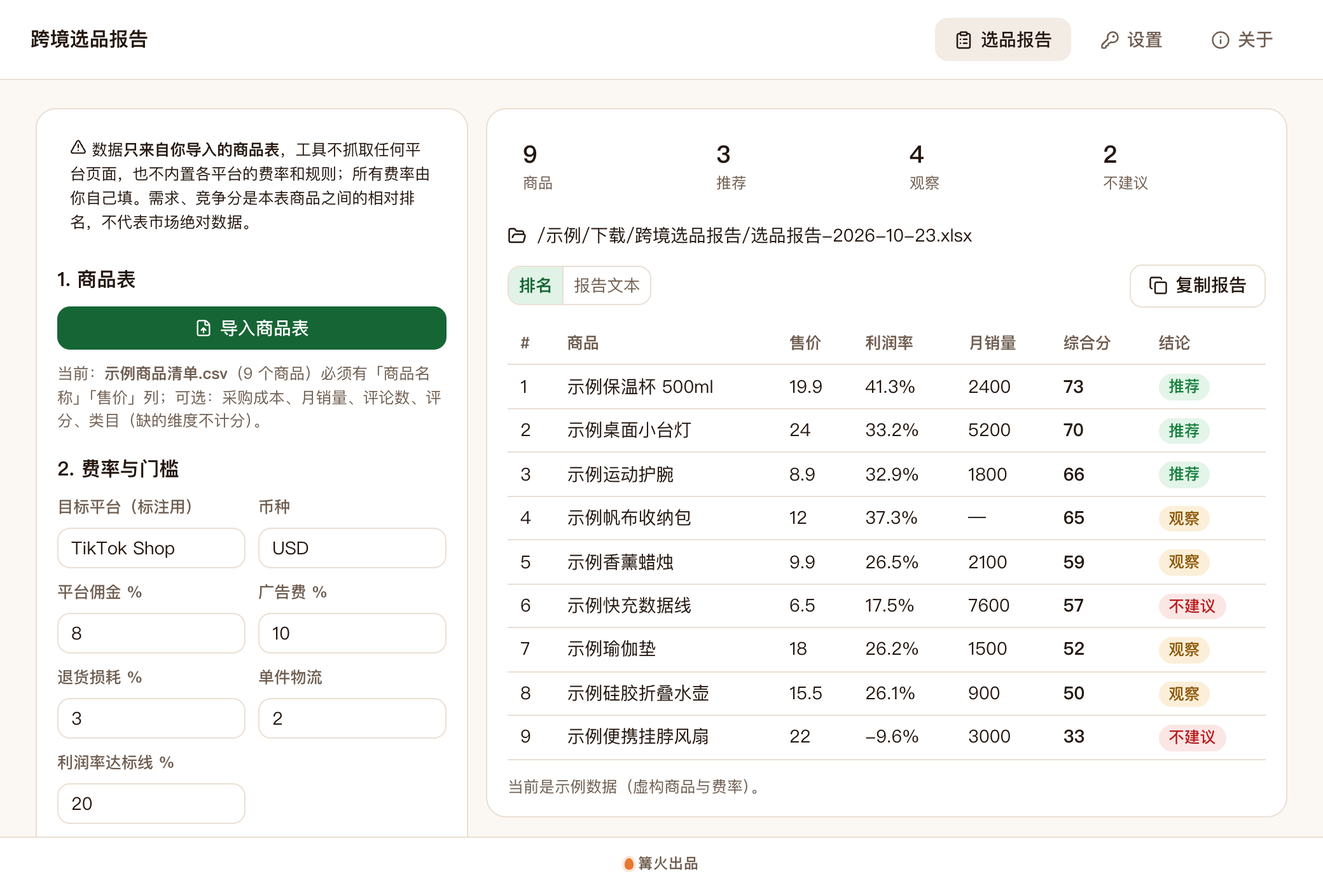
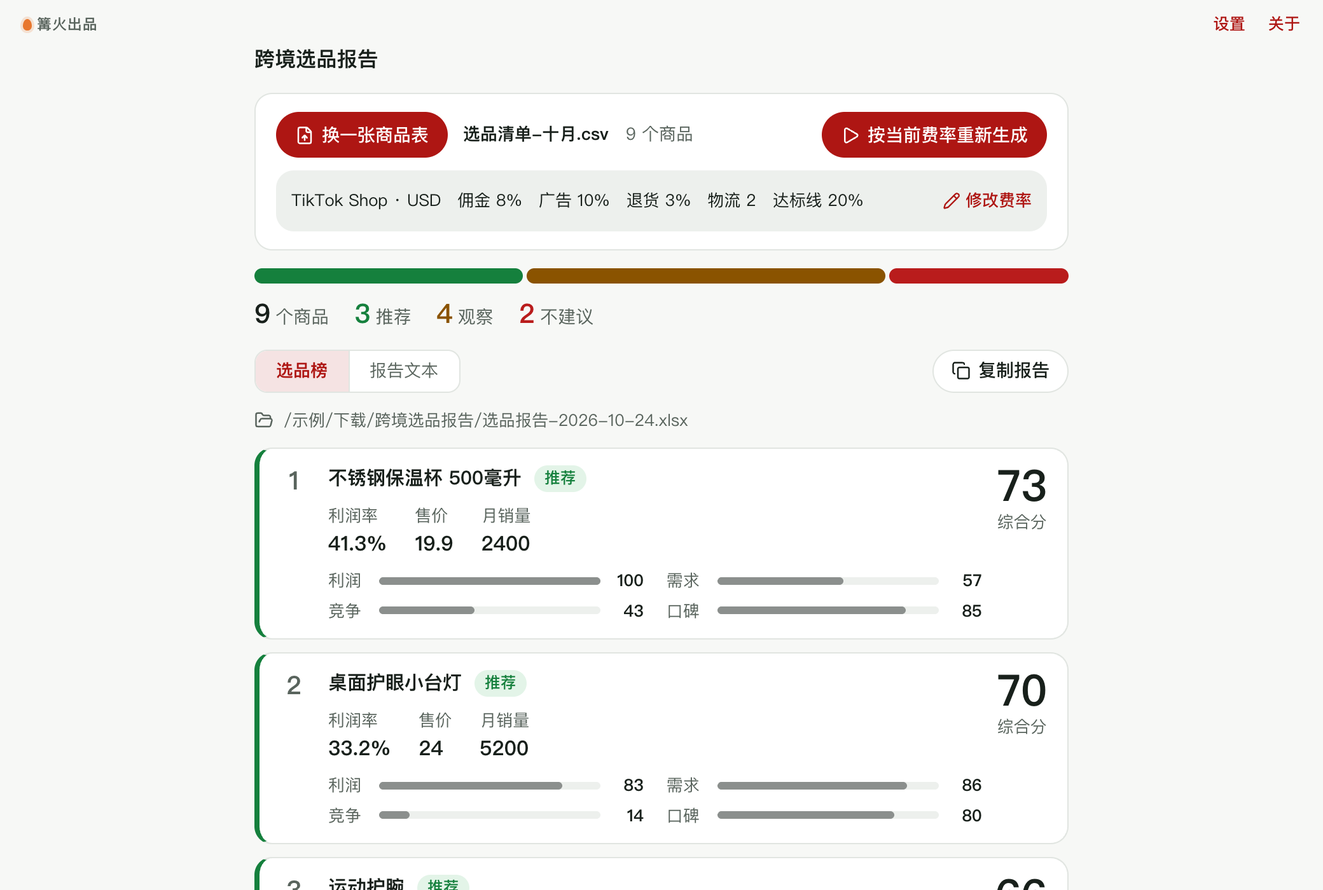
打磨 e17：单栏选品榜卡片与四维度分条，全中文，升至 0.2.0

diff --git a/src/tool/Main.tsx b/src/tool/Main.tsx
@@ -1,12 +1,12 @@
-// 主界面：左侧导入商品表、填费率、选是否用大模型；右侧看排名与报告文本，导出 Excel / Markdown。
+// 主界面：单栏报告流。上面导入商品表、填费率（生成后收成一行摘要），下面是按综合分排的商品榜单卡，每张卡有四维度分条；可看报告文本、导出 Excel / Markdown。
 import { useEffect, useRef, useState } from 'react';
-import { FileUp, FolderOpen, Play, TriangleAlert } from 'lucide-react';
+import { FileUp, FolderOpen, Pencil, Play, TriangleAlert } from 'lucide-react';
 import type { CustomTool } from '../kit/types';
 import { defaultOutputDir, pickFiles, reveal } from '../kit/platform';
 import { useDroppedFiles, CopyButton } from '../kit/parts';
 import { errText } from './common';
 import { loadProducts, runReport, type Outcome } from './flow';
-import { pctText } from './core';
+import { pctText, type Scored } from './core';
 import { DEFAULT_PREFS, loadPrefs, savePrefs, type Prefs } from './store';
 import { PREVIEW_CSV, PREVIEW_SETTINGS, isPreview } from './preview';
 import './tool.css';
@@ -14,11 +14,12 @@ import './tool.css';
 type Ctx = Parameters<CustomTool['Main']>[0]['ctx'];
 type Tab = 'rank' | 'text';
 const NUMS: [keyof Prefs, string, string][] = [['commission', '平台佣金 %', '占售价'], ['ads', '广告费 %', '占售价'], ['returns', '退货损耗 %', '占售价'], ['shipping', '单件物流', '本币金额']];
+const DIMS: [keyof Scored['dims'], string][] = [['margin', '利润'], ['demand', '需求'], ['competition', '竞争'], ['quality', '口碑']];
 
 export function Main({ ctx }: { ctx?: Ctx }) {
   const preview = isPreview();
   const [prefs, setPrefs] = useState<Prefs>(preview ? { ...DEFAULT_PREFS, ...PREVIEW_SETTINGS } : DEFAULT_PREFS);
-  const [file, setFile] = useState(preview ? '示例商品清单.csv' : '');
+  const [file, setFile] = useState(preview ? '选品清单-十月.csv' : '');
   const bytes = useRef<Uint8Array | null>(preview ? new TextEncoder().encode(PREVIEW_CSV) : null);
   const [count, setCount] = useState(preview ? 9 : 0);
   const [out, setOut] = useState<Outcome | null>(null);
@@ -26,6 +27,7 @@ export function Main({ ctx }: { ctx?: Ctx }) {
   const [busy, setBusy] = useState(false);
   const [error, setError] = useState('');
   const [notice, setNotice] = useState('');
+  const [cfgOpen, setCfgOpen] = useState(!preview);
 
   useEffect(() => { if (!preview) void loadPrefs().then(setPrefs); }, [preview]);
   const setP = (patch: Partial<Prefs>) => setPrefs((p) => { const n = { ...p, ...patch }; void savePrefs(n); return n; });
@@ -49,7 +51,7 @@ export function Main({ ctx }: { ctx?: Ctx }) {
       const io = ctx ?? { mkdir: async () => {}, writeFile: async () => {}, join: async (...p: string[]) => p.join('/') };
       const outDir = preview ? '/示例/下载/跨境选品报告' : await defaultOutputDir('跨境选品报告');
       const r = await runReport({ bytes: bytes.current, file, settings: prefs, useLlm: prefs.useLlm && !preview, llm: ctx?.llm, io, outDir, now: new Date(), top: 10 });
-      setOut(r);
+      setOut(r); setCfgOpen(false);
       if (r.llmError) setNotice(`报告已生成，但 AI 解读没有成功：${r.llmError}`);
     } catch (e) { setError(errText(e)); } finally { setBusy(false); }
   }
@@ -57,67 +59,107 @@ export function Main({ ctx }: { ctx?: Ctx }) {
 
   const zeroFee = prefs.commission + prefs.ads + prefs.returns + prefs.shipping === 0;
   const cnt = (v: string) => out?.scored.filter((x) => x.verdict === v).length ?? 0;
+  const total = out?.scored.length ?? 0;
+  const vcls = (v: string) => (v === '推荐' ? 'ok' : v === '观察' ? 'warn' : 'err');
   return (
     <div className="pr-root">
-      <section className="k-panel pr-side">
-        <p className="pr-risk"><TriangleAlert size={13} /> 数据<b>只来自你导入的商品表</b>，工具不抓取任何平台页面，也不内置各平台的费率和规则；所有费率由你自己填。需求、竞争分是本表商品之间的相对排名，不代表市场绝对数据。</p>
-        <h3 className="k-section">1. 商品表</h3>
-        <button className="k-btn primary" disabled={!ctx} onClick={() => void pickFiles(['xlsx', 'csv'], '商品表').then(importFile)}><FileUp size={14} />导入商品表{hover && ' · 松开即可导入'}</button>
-        <p className="k-muted pr-note">{file ? <>当前：<b>{file}</b>（{count} 个商品）</> : '支持 .xlsx / .csv，也可直接拖进窗口。'}必须有「商品名称」「售价」列；可选：采购成本、月销量、评论数、评分、类目（缺的维度按中性 50 分）。</p>
-        <h3 className="k-section">2. 费率与门槛</h3>
-        <div className="pr-two">
-          <div className="k-field"><label className="k-label" htmlFor="pr-pf">目标平台（标注用）</label><input id="pr-pf" className="k-input" value={prefs.platform} onChange={(e) => setP({ platform: e.target.value })} /></div>
-          <div className="k-field"><label className="k-label" htmlFor="pr-cur">币种</label><input id="pr-cur" className="k-input" value={prefs.currency} onChange={(e) => setP({ currency: e.target.value })} /></div>
-          {NUMS.map(([k, label, help]) => (
-            <div className="k-field" key={k}><label className="k-label" htmlFor={`pr-${k}`}>{label}</label><input id={`pr-${k}`} className="k-input" type="number" min={0} step="any" title={help} value={prefs[k] as number} onChange={(e) => setP({ [k]: Math.max(0, Number(e.target.value) || 0) })} /></div>
-          ))}
-          <div className="k-field"><label className="k-label" htmlFor="pr-min">利润率达标线 %</label><input id="pr-min" className="k-input" type="number" min={0} value={prefs.minMargin} onChange={(e) => setP({ minMargin: Math.max(0, Number(e.target.value) || 0) })} /></div>
+      <section className="pr-top">
+        <div className="pr-file-row">
+          <button className="k-btn primary" disabled={!ctx} onClick={() => void pickFiles(['xlsx', 'csv'], '商品表').then(importFile)}><FileUp size={15} />{file ? '换一张商品表' : '导入商品表'}{hover && ' · 松开即可导入'}</button>
+          <span className="pr-cur">{file ? <><b>{file}</b>　{count} 个商品</> : '支持 .xlsx / .csv，也可直接拖进窗口'}</span>
+          <button className="k-btn primary pr-go" disabled={busy || !count} onClick={() => void run()}><Play size={15} />{busy ? '生成中…' : out ? '按当前费率重新生成' : '生成选品报告'}</button>
         </div>
-        {zeroFee && <p className="pr-warn"><TriangleAlert size={13} /> 费率和物流都是 0，利润会被高估，请按实际填写。</p>}
-        <h3 className="k-section">3. AI 解读（可选）</h3>
-        <label className="k-toggle"><input type="checkbox" checked={prefs.useLlm} onChange={(e) => setP({ useLlm: e.target.checked })} /><span>用大模型写「机会 / 风险 / 验证建议」</span></label>
-        <p className="k-muted pr-note">接口地址、密钥、模型名在「设置」页自己填（兼容 OpenAI 接口）。只会把排名靠前的商品数据发给你配置的接口；不开也能得到完整的数字报告。</p>
-        <button className="k-btn primary" disabled={busy || !count} onClick={() => void run()}><Play size={14} />{busy ? '生成中…' : '生成选品报告'}</button>
-      </section>
+        {!file && <p className="pr-note">必须有「商品名称」「售价」列；可选：采购成本、月销量、评论数、评分、类目（缺的维度按中性 50 分）。</p>}
 
-      <section className="k-panel pr-main">
-        {error && <div className="k-notice err" role="alert">{error}</div>}
-        {notice && !error && <div className="k-notice ok">{notice}</div>}
-        {!out && !error && <div className="k-empty"><p>导入商品表、填好费率后点「生成选品报告」。</p><p className="k-muted">没有表格可以用 samples 里的「商品清单-示例.csv」先试一遍。</p></div>}
-        {out && (
-          <>
-            <div className="pr-sum">
-              <div><b className="k-num">{out.scored.length}</b><span className="k-muted">商品</span></div>
-              <div><b className="k-num">{cnt('推荐')}</b><span className="k-muted">推荐</span></div>
-              <div><b className="k-num">{cnt('观察')}</b><span className="k-muted">观察</span></div>
-              <div><b className="k-num">{cnt('不建议')}</b><span className="k-muted">不建议</span></div>
+        {cfgOpen ? (
+          <div className="pr-cfg">
+            <div className="pr-grid">
+              <div className="k-field"><label className="k-label" htmlFor="pr-pf">目标平台（标注用）</label><input id="pr-pf" className="k-input" value={prefs.platform} onChange={(e) => setP({ platform: e.target.value })} /></div>
+              <div className="k-field"><label className="k-label" htmlFor="pr-cur">币种</label><input id="pr-cur" className="k-input" value={prefs.currency} onChange={(e) => setP({ currency: e.target.value })} /></div>
+              {NUMS.map(([k, label, help]) => (
+                <div className="k-field" key={k}><label className="k-label" htmlFor={`pr-${k}`}>{label}</label><input id={`pr-${k}`} className="k-input" type="number" min={0} step="any" title={help} value={prefs[k] as number} onChange={(e) => setP({ [k]: Math.max(0, Number(e.target.value) || 0) })} /></div>
+              ))}
+              <div className="k-field"><label className="k-label" htmlFor="pr-min">利润率达标线 %</label><input id="pr-min" className="k-input" type="number" min={0} value={prefs.minMargin} onChange={(e) => setP({ minMargin: Math.max(0, Number(e.target.value) || 0) })} /></div>
             </div>
-            <div className="pr-file"><FolderOpen size={15} /><span className="k-ellipsis" title={out.xlsxPath}>{out.xlsxPath}</span>{!preview && <button className="k-link" onClick={() => void reveal(out.xlsxPath)}>在文件夹中显示</button>}</div>
-            <div className="pr-bar">
-              <div className="k-seg" role="tablist">
-                <button role="tab" aria-selected={tab === 'rank'} className={tab === 'rank' ? 'on' : ''} onClick={() => setTab('rank')}>排名</button>
-                <button role="tab" aria-selected={tab === 'text'} className={tab === 'text' ? 'on' : ''} onClick={() => setTab('text')}>报告文本</button>
-              </div>
-              <CopyButton text={out.markdown} label="复制报告" />
-            </div>
-            {tab === 'rank' && (
-              <div className="k-table-wrap k-scroll pr-table">
-                <table className="k-table">
-                  <thead><tr><th>#</th><th>商品</th><th>售价</th><th>利润率</th><th>月销量</th><th>综合分</th><th>结论</th></tr></thead>
-                  <tbody>{out.scored.slice(0, 50).map((x, i) => (
-                    <tr key={x.line}>
-                      <td className="k-num">{i + 1}</td><td><div className="pr-name" title={x.name}>{x.name}</div></td><td className="k-num">{x.price}</td>
-                      <td className="k-num">{pctText(x.margin)}</td><td className="k-num">{x.sales ?? '—'}</td><td className="k-num"><b>{x.score}</b></td>
-                      <td><span className={`k-st ${x.verdict === '推荐' ? 'ok' : x.verdict === '观察' ? 'warn' : 'err'}`}>{x.verdict}</span></td>
-                    </tr>))}</tbody>
-                </table>
-              </div>
-            )}
-            {tab === 'text' && <pre className="pr-md k-scroll">{out.markdown}</pre>}
-            {preview && <p className="k-muted pr-note">当前是示例数据（虚构商品与费率）。</p>}
-          </>
+            {zeroFee && <p className="pr-warn"><TriangleAlert size={14} />费率和物流都是 0，利润会被高估，请按实际填写。</p>}
+            <label className="k-toggle pr-ai"><input type="checkbox" checked={prefs.useLlm} onChange={(e) => setP({ useLlm: e.target.checked })} /><span>用大模型写「机会 / 风险 / 验证建议」</span></label>
+            <p className="pr-note">接口地址、密钥、模型名在「设置」页自己填（兼容 OpenAI 接口）。只会把排名靠前的商品数据发给你配置的接口；不开也能得到完整的数字报告。</p>
+          </div>
+        ) : (
+          <div className="pr-sumline">
+            <span>{prefs.platform} · {prefs.currency}　佣金 {prefs.commission}%　广告 {prefs.ads}%　退货 {prefs.returns}%　物流 {prefs.shipping}　达标线 {prefs.minMargin}%</span>
+            <button className="k-link pr-edit" onClick={() => setCfgOpen(true)}><Pencil size={14} />修改费率</button>
+          </div>
         )}
       </section>
+
+      {error && <div className="k-notice err" role="alert">{error}</div>}
+      {notice && !error && <div className="k-notice ok">{notice}</div>}
+      {!out && !error && (
+        <section className="pr-empty">
+          <div className="pr-empty-art" aria-hidden="true">
+            <div className="pr-tbl"><i /><i /><i /><i /><span>商品表</span></div>
+            <span className="pr-arrow">→</span>
+            <div className="pr-rank">
+              {[['1', 86, '推荐'], ['2', 64, '观察'], ['3', 41, '不建议']].map(([n, w, v]) => <div key={n as string}><b>{n}</b><u style={{ width: `${w}%` }} className={vcls(v as string)} /></div>)}
+              <span>选品榜</span>
+            </div>
+          </div>
+          <h2>一张商品表，排成一份选品榜</h2>
+          <p>按你填的费率算利润，再结合需求、竞争、口碑给每个商品打综合分，分成推荐、观察、不建议三档，缺数据的地方会写明。</p>
+          <p className="pr-note">没有表格可以用样例文件夹里的「商品清单-示例.csv」先试一遍。</p>
+        </section>
+      )}
+
+      {out && (
+        <section className="pr-report">
+          <div className="pr-verdict">
+            <div className="pr-vbar" role="img" aria-label={`推荐 ${cnt('推荐')}，观察 ${cnt('观察')}，不建议 ${cnt('不建议')}`}>
+              <i className="ok" style={{ flex: cnt('推荐') }} /><i className="warn" style={{ flex: cnt('观察') }} /><i className="err" style={{ flex: cnt('不建议') }} />
+            </div>
+            <div className="pr-vnums">
+              <span><b className="k-num">{total}</b>个商品</span>
+              <span className="c-ok"><b className="k-num">{cnt('推荐')}</b>推荐</span>
+              <span className="c-warn"><b className="k-num">{cnt('观察')}</b>观察</span>
+              <span className="c-err"><b className="k-num">{cnt('不建议')}</b>不建议</span>
+            </div>
+          </div>
+          <div className="pr-bar">
+            <div className="k-seg" role="tablist">
+              <button role="tab" aria-selected={tab === 'rank'} className={tab === 'rank' ? 'on' : ''} onClick={() => setTab('rank')}>选品榜</button>
+              <button role="tab" aria-selected={tab === 'text'} className={tab === 'text' ? 'on' : ''} onClick={() => setTab('text')}>报告文本</button>
+            </div>
+            <CopyButton text={out.markdown} label="复制报告" />
+          </div>
+          <div className="pr-file"><FolderOpen size={15} /><span className="k-ellipsis" title={out.xlsxPath}>{out.xlsxPath}</span>{!preview && <button className="k-link" onClick={() => void reveal(out.xlsxPath)}>在文件夹中显示</button>}</div>
+          {tab === 'rank' && (
+            <ol className="pr-list">
+              {out.scored.slice(0, 50).map((x, i) => (
+                <li key={x.line} className={`pr-item ${vcls(x.verdict)}`}>
+                  <span className="pr-no k-num">{i + 1}</span>
+                  <div className="pr-body">
+                    <div className="pr-h"><b className="pr-name" title={x.name}>{x.name}</b><span className={`k-st ${vcls(x.verdict)}`}>{x.verdict}</span></div>
+                    <div className="pr-facts">
+                      <span><em>利润率</em><b className={`k-num${x.margin != null && x.margin < 0 ? ' neg' : ''}`}>{pctText(x.margin)}</b></span>
+                      <span><em>售价</em><b className="k-num">{x.price}</b></span>
+                      <span><em>月销量</em><b className="k-num">{x.sales ?? '—'}</b></span>
+                    </div>
+                    <div className="pr-dims">
+                      {DIMS.map(([k, label]) => (
+                        <div key={k} title={x.dims[k] == null ? '缺数据，按中性 50 分计' : undefined}><span>{label}</span><i><u style={{ width: `${x.dims[k] ?? 50}%` }} className={x.dims[k] == null ? 'na' : ''} /></i><b className="k-num">{x.dims[k] ?? '—'}</b></div>
+                      ))}
+                    </div>
+                    {x.notes.length > 0 && <p className="pr-notes">{x.notes.join('；')}</p>}
+                  </div>
+                  <div className="pr-score"><b className="k-num">{x.score}</b><span>综合分</span></div>
+                </li>))}
+            </ol>
+          )}
+          {tab === 'text' && <pre className="pr-md k-scroll">{out.markdown}</pre>}
+          {preview && <p className="pr-note">当前是示例数据（虚构商品与费率）。</p>}
+          <p className="pr-risk"><TriangleAlert size={14} /><span>数据只来自你导入的商品表，不抓取任何平台页面，也不内置各平台的费率和规则；需求、竞争分是本表商品之间的相对排名，不代表市场绝对数据。</span></p>
+        </section>
+      )}
     </div>
   );
 }

diff --git a/src/tool/tool.css b/src/tool/tool.css
@@ -1,22 +1,69 @@
 /* 跨境选品报告：只用 kit.css 的变量，类名以 pr- 开头。 */
-.pr-root { flex: 1; min-height: 0; display: flex; flex-wrap: wrap; gap: 14px; align-items: flex-start; }
-.pr-side { flex: 0 1 340px; min-width: 280px; padding: 14px 16px; display: grid; gap: 10px; }
-.pr-main { flex: 1 1 420px; min-width: 0; padding: 14px 16px; display: grid; gap: 12px; align-content: start; min-height: 320px; }
-.pr-side .k-section { margin: 6px 0 0; }
-.pr-risk { font-size: .88em; margin: 0; padding: 8px 10px; border-radius: var(--radius); background: var(--side); line-height: 1.55; }
-.pr-warn { display: flex; gap: 6px; align-items: center; font-size: .9em; margin: 0; color: var(--warn); }
-.pr-note { font-size: .88em; margin: 0; }
-.pr-two { display: grid; grid-template-columns: 1fr 1fr; gap: 10px; }
-.pr-list { list-style: none; margin: 0; padding: 0; display: grid; gap: 4px; max-height: 160px; overflow: auto; }
-.pr-list li { display: flex; justify-content: space-between; align-items: center; gap: 8px; font-size: .9em; }
-.pr-sum { display: grid; grid-template-columns: repeat(auto-fit, minmax(78px, 1fr)); gap: 12px; }
-.pr-sum > div { display: grid; gap: 2px; padding: 10px 12px; border-radius: var(--radius); background: var(--side); }
-.pr-sum b { font-size: 1.35em; line-height: 1.2; }
-.pr-sum .k-muted { font-size: .85em; }
+.pr-root { display: flex; flex-direction: column; gap: 14px; font-size: 14px; }
+.pr-root h2 { color: var(--ink); font-size: 1.15em; margin: 0; }
+.pr-top { display: grid; gap: 10px; background: var(--surface); border: 1px solid var(--line); border-radius: var(--radius-lg); padding: 14px 16px; }
+.pr-file-row { display: flex; align-items: center; gap: 12px; flex-wrap: wrap; }
+.pr-file-row .k-btn { height: 36px; }
+.pr-go { margin-left: auto; }
+.pr-report { display: grid; gap: 12px; }
+.pr-cur { font-size: 13.5px; color: var(--muted); min-width: 0; }
+.pr-cur b { color: var(--ink); }
+.pr-note { margin: 0; font-size: 13px; line-height: 1.55; color: var(--muted); }
+.pr-warn { display: flex; gap: 6px; align-items: center; margin: 0; font-size: 13px; color: var(--warn); }
+.pr-risk { display: flex; gap: 8px; margin: 0; font-size: 13px; line-height: 1.55; color: var(--muted); }
+.pr-risk svg { flex: none; margin-top: 3px; color: var(--warn); }
+.pr-cfg { display: grid; gap: 10px; padding: 12px; border-radius: var(--radius-lg); background: var(--chip); }
+.pr-grid { display: grid; grid-template-columns: repeat(auto-fill, minmax(150px, 1fr)); gap: 10px 12px; }
+.pr-grid .k-field { display: grid; gap: 4px; }
+.pr-grid .k-label { font-size: 13px; }
+.pr-sumline { display: flex; align-items: center; justify-content: space-between; gap: 10px; flex-wrap: wrap; padding: 8px 12px; border-radius: var(--radius-lg); background: var(--chip); font-size: 13px; }
+.pr-edit { min-height: 32px; font-size: 13px; }
+
+.pr-empty { display: grid; justify-items: center; gap: 8px; text-align: center; padding: 18px 8px; }
+.pr-empty p { margin: 0; max-width: 480px; line-height: 1.65; }
+.pr-empty-art { display: flex; align-items: center; gap: 18px; margin-bottom: 6px; }
+.pr-tbl, .pr-rank { display: grid; gap: 6px; padding: 12px; background: var(--surface); border: 1px solid var(--line); border-radius: var(--radius-lg); }
+.pr-tbl i { display: block; width: 110px; height: 10px; border-radius: 5px; background: var(--line-strong); }
+.pr-tbl span, .pr-rank span { font-size: 13px; color: var(--muted); }
+.pr-arrow { font-size: 24px; color: var(--primary); }
+.pr-rank { min-width: 150px; }
+.pr-rank div { display: flex; align-items: center; gap: 8px; }
+.pr-rank b { width: 14px; font-size: 13px; }
+.pr-rank u { display: block; height: 10px; border-radius: 5px; }
+.pr-rank u.ok { background: var(--ok); } .pr-rank u.warn { background: var(--warn); } .pr-rank u.err { background: var(--err); }
+
+.pr-verdict { display: grid; gap: 8px; }
+.pr-vbar { display: flex; gap: 3px; height: 12px; }
+.pr-vbar i { display: block; border-radius: 6px; min-width: 0; }
+.pr-vbar i.ok { background: var(--ok); } .pr-vbar i.warn { background: var(--warn); } .pr-vbar i.err { background: var(--err); }
+.pr-vnums { display: flex; gap: 20px; flex-wrap: wrap; color: var(--muted); font-size: 14px; }
+.pr-vnums b { font-size: 1.5em; color: var(--ink); margin-right: 4px; }
+.pr-vnums .c-ok b { color: var(--ok); } .pr-vnums .c-warn b { color: var(--warn); } .pr-vnums .c-err b { color: var(--err); }
 .pr-bar { display: flex; justify-content: space-between; align-items: center; gap: 10px; flex-wrap: wrap; }
 .pr-bar .k-seg { flex: 0 0 auto; }
-.pr-file { display: flex; align-items: center; gap: 8px; min-width: 0; }
-.pr-table { max-height: 380px; }
-.pr-flag { color: var(--warn); font-size: .9em; }
-.pr-name { max-width: 200px; overflow: hidden; text-overflow: ellipsis; white-space: nowrap; }
-.pr-md { margin: 0; max-height: 380px; overflow: auto; white-space: pre-wrap; font-size: .85em; line-height: 1.55; padding: 10px 12px; border-radius: var(--radius); background: var(--side); }
+.pr-bar .k-seg button { min-height: 32px; font-size: 13.5px; padding: 0 16px; }
+.pr-file { display: flex; align-items: center; gap: 8px; min-width: 0; font-size: 13px; color: var(--muted); }
+
+.pr-list { list-style: none; margin: 0; padding: 0; display: grid; gap: 10px; }
+.pr-item { display: grid; grid-template-columns: 30px 1fr auto; gap: 12px; align-items: start; background: var(--surface); border: 1px solid var(--line); border-left: 4px solid var(--line-strong); border-radius: var(--radius-lg); padding: 12px 16px 12px 12px; }
+.pr-item.ok { border-left-color: var(--ok); } .pr-item.warn { border-left-color: var(--warn); } .pr-item.err { border-left-color: var(--err); }
+.pr-no { font-size: 20px; font-weight: 700; color: var(--muted); line-height: 1.3; text-align: center; }
+.pr-body { display: grid; gap: 8px; min-width: 0; }
+.pr-h { display: flex; align-items: center; gap: 10px; }
+.pr-name { font-size: 15px; min-width: 0; overflow: hidden; text-overflow: ellipsis; white-space: nowrap; }
+.pr-facts { display: flex; gap: 22px; flex-wrap: wrap; }
+.pr-facts span { display: grid; }
+.pr-facts em { font-style: normal; font-size: 13px; color: var(--muted); }
+.pr-facts b { font-size: 16px; }
+.pr-facts b.neg { color: var(--err); }
+.pr-dims { display: grid; grid-template-columns: 1fr 1fr; gap: 4px 18px; }
+.pr-dims div { display: grid; grid-template-columns: 32px 1fr 26px; align-items: center; gap: 8px; font-size: 13px; color: var(--muted); }
+.pr-dims i { display: block; height: 6px; border-radius: 3px; background: var(--chip); overflow: hidden; }
+.pr-dims u { display: block; height: 100%; border-radius: 3px; background: color-mix(in srgb, var(--ink) 50%, var(--surface)); }
+.pr-dims u.na { background: repeating-linear-gradient(90deg, var(--line-strong) 0 4px, transparent 4px 8px); }
+.pr-dims b { text-align: right; color: var(--ink); font-weight: 600; }
+.pr-notes { margin: 0; font-size: 13px; color: var(--warn); }
+.pr-score { display: grid; justify-items: center; }
+.pr-score b { font-size: 34px; line-height: 1.05; font-weight: 700; color: var(--ink); }
+.pr-score span { font-size: 13px; color: var(--muted); }
+.pr-md { margin: 0; padding: 12px 14px; max-height: 480px; overflow: auto; white-space: pre-wrap; font-size: 13px; background: var(--surface); border: 1px solid var(--line); border-radius: var(--radius-lg); user-select: text; }

diff --git a/src/tool/preview.ts b/src/tool/preview.ts
@@ -1,15 +1,15 @@
-// 截图与预览用的示例数据（不会进入正式运行）。商品均为虚构的「示例」。
+// 截图与预览用的示例数据（不会进入正式运行）。商品均为虚构。
 export const rows = () => [];
 export const params = {};
 export const isPreview = () => typeof location !== 'undefined' && location.pathname.endsWith('preview.html');
 export const PREVIEW_CSV = `商品名称,类目,售价,采购成本,月销量,评论数,评分
-示例保温杯 500ml,家居,19.9,5.5,2400,320,4.7
-示例硅胶折叠水壶,户外,15.5,6.2,900,80,4.3
-示例桌面小台灯,家居,24.0,9.0,5200,2100,4.6
-示例运动护腕,运动,8.9,2.1,1800,45,4.1
-示例便携挂脖风扇,小家电,22.0,17.5,3000,900,3.8
-示例帆布收纳包,箱包,12.0,3.0,,,
-示例快充数据线,配件,6.5,2.0,7600,5600,4.5
-示例瑜伽垫,运动,18.0,7.5,1500,150,4.4
-示例香薰蜡烛,家居,9.9,3.2,2100,260,4.6`;
+不锈钢保温杯 500毫升,家居,19.9,5.5,2400,320,4.7
+硅胶折叠水壶,户外,15.5,6.2,900,80,4.3
+桌面护眼小台灯,家居,24.0,9.0,5200,2100,4.6
+运动护腕,运动,8.9,2.1,1800,45,4.1
+便携挂脖风扇,小家电,22.0,17.5,3000,900,3.8
+帆布收纳包,箱包,12.0,3.0,,,
+快充数据线,配件,6.5,2.0,7600,5600,4.5
+加厚瑜伽垫,运动,18.0,7.5,1500,150,4.4
+香薰蜡烛,家居,9.9,3.2,2100,260,4.6`;
 export const PREVIEW_SETTINGS = { commission: 8, ads: 10, returns: 3, shipping: 2, minMargin: 20 };

diff --git a/CHANGELOG.md b/CHANGELOG.md
@@ -1,5 +1,12 @@
 # 更新记录
 
+## 0.2.0
+
+- 界面重做：改为单栏报告流，导入栏加费率摘要，生成后展示选品榜卡片（利润率、综合分、四个维度分条、缺数据备注）和推荐 / 观察 / 不建议比例条。
+- 新增空状态示意：商品表排成选品榜。
+- 布局改为居中单栏，主色改为深红。
+- 示例数据改为中文商品名，重写上架文案。
+
 ## 0.1.0
 
 - 首个版本。
